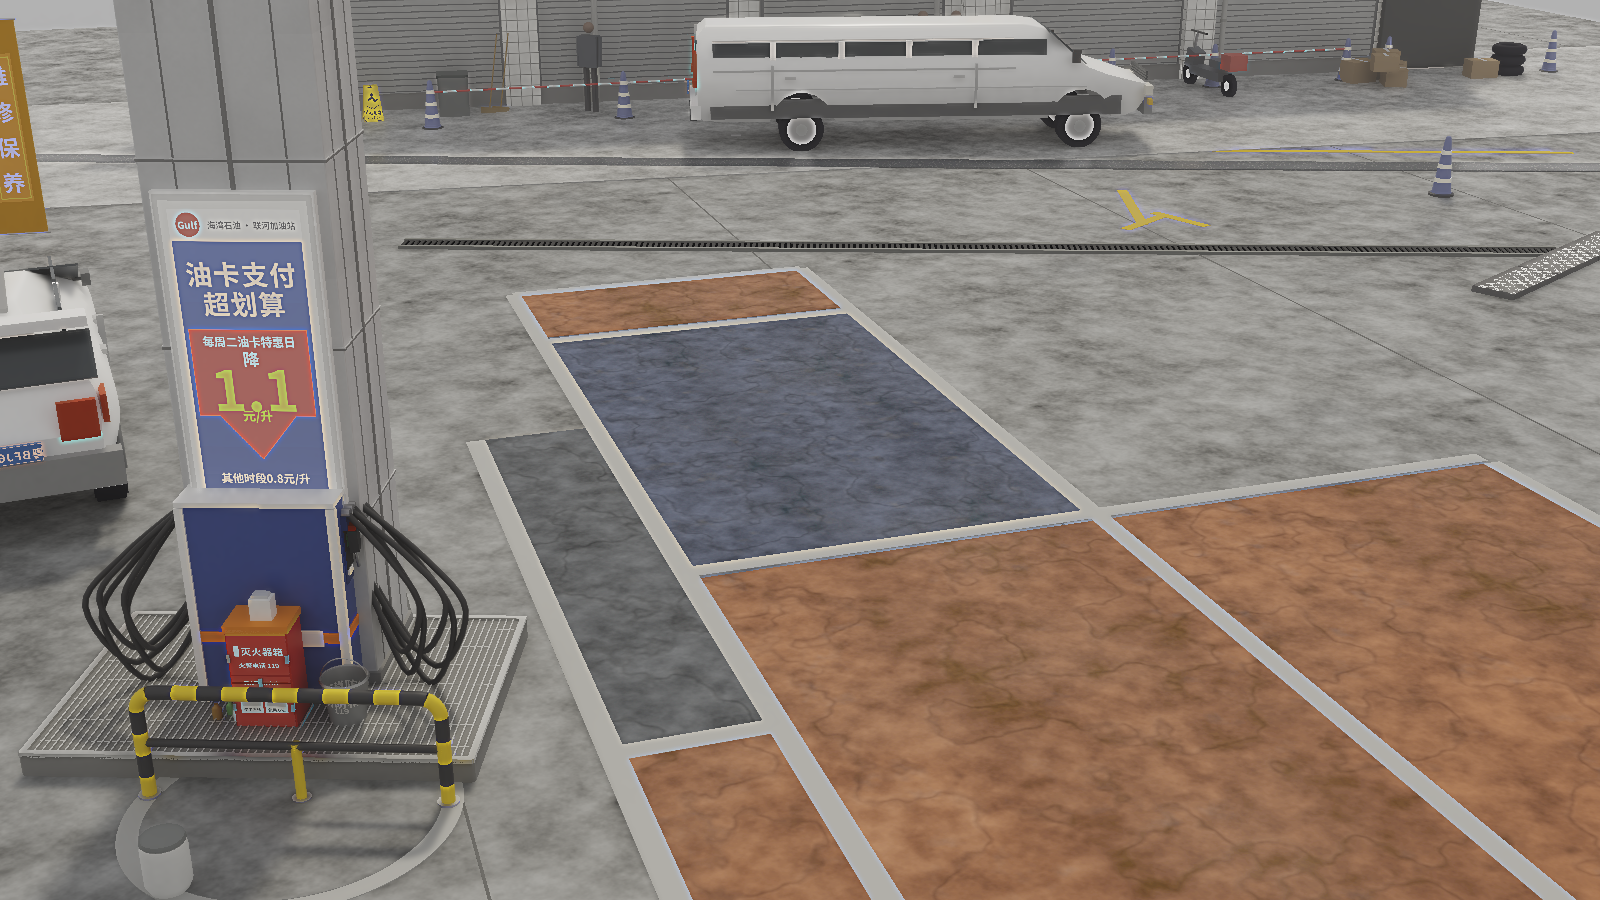
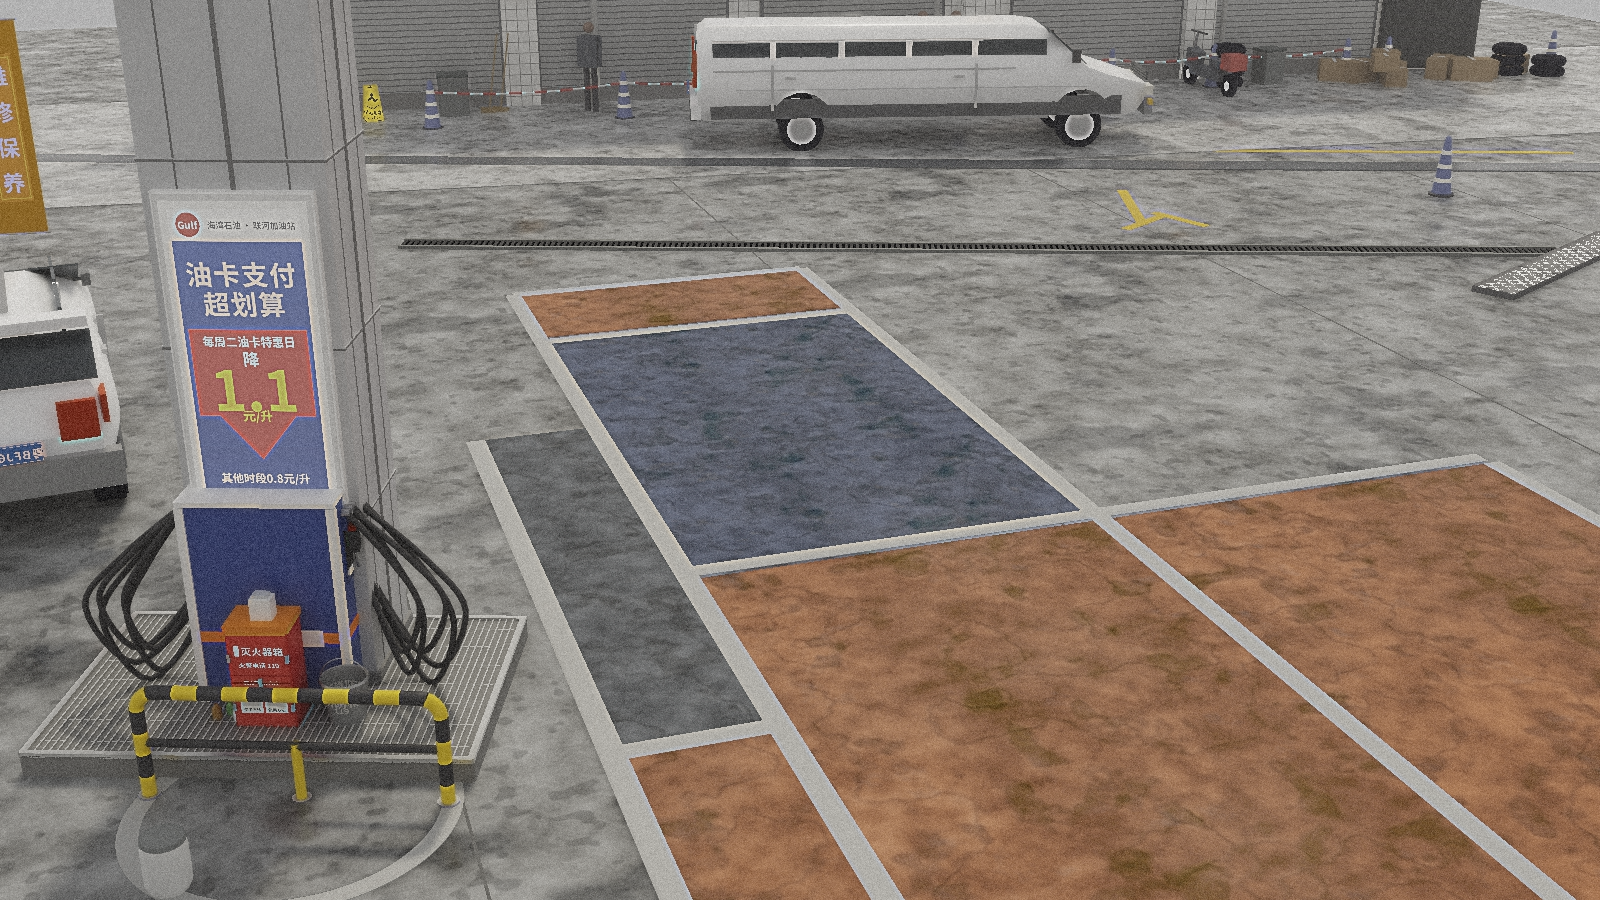
re-solve the grain now the maps carry the detail it was standing in for

diff --git a/examples/cases/26_forecourt.py b/examples/cases/26_forecourt.py
@@ -344,7 +344,11 @@ def render(prog, out, spp, w, h, extra=()):
     # deviation: on a textured photograph the detail dominates the sd, and matching that
     # buries the image in film grain, which the first attempt duly did.
     img = sensor.apply(np.asarray(Image.open(ppm).convert("RGB"), float) / 255.0,
-                       grain=0.0267, chroma_blur=1.0)
+                       # re-solved after the hard-edged stains went in: the maps now
+                       # supply detail the grain used to be standing in for, so it
+                       # comes down (floor was overshooting 0.0356 against 0.0289),
+                       # and the chroma blur was over-correcting past the photograph.
+                       grain=0.0195, chroma_blur=0.6)
     Image.fromarray((img * 255 + 0.5).astype(np.uint8)).save(png)
     return png
 
